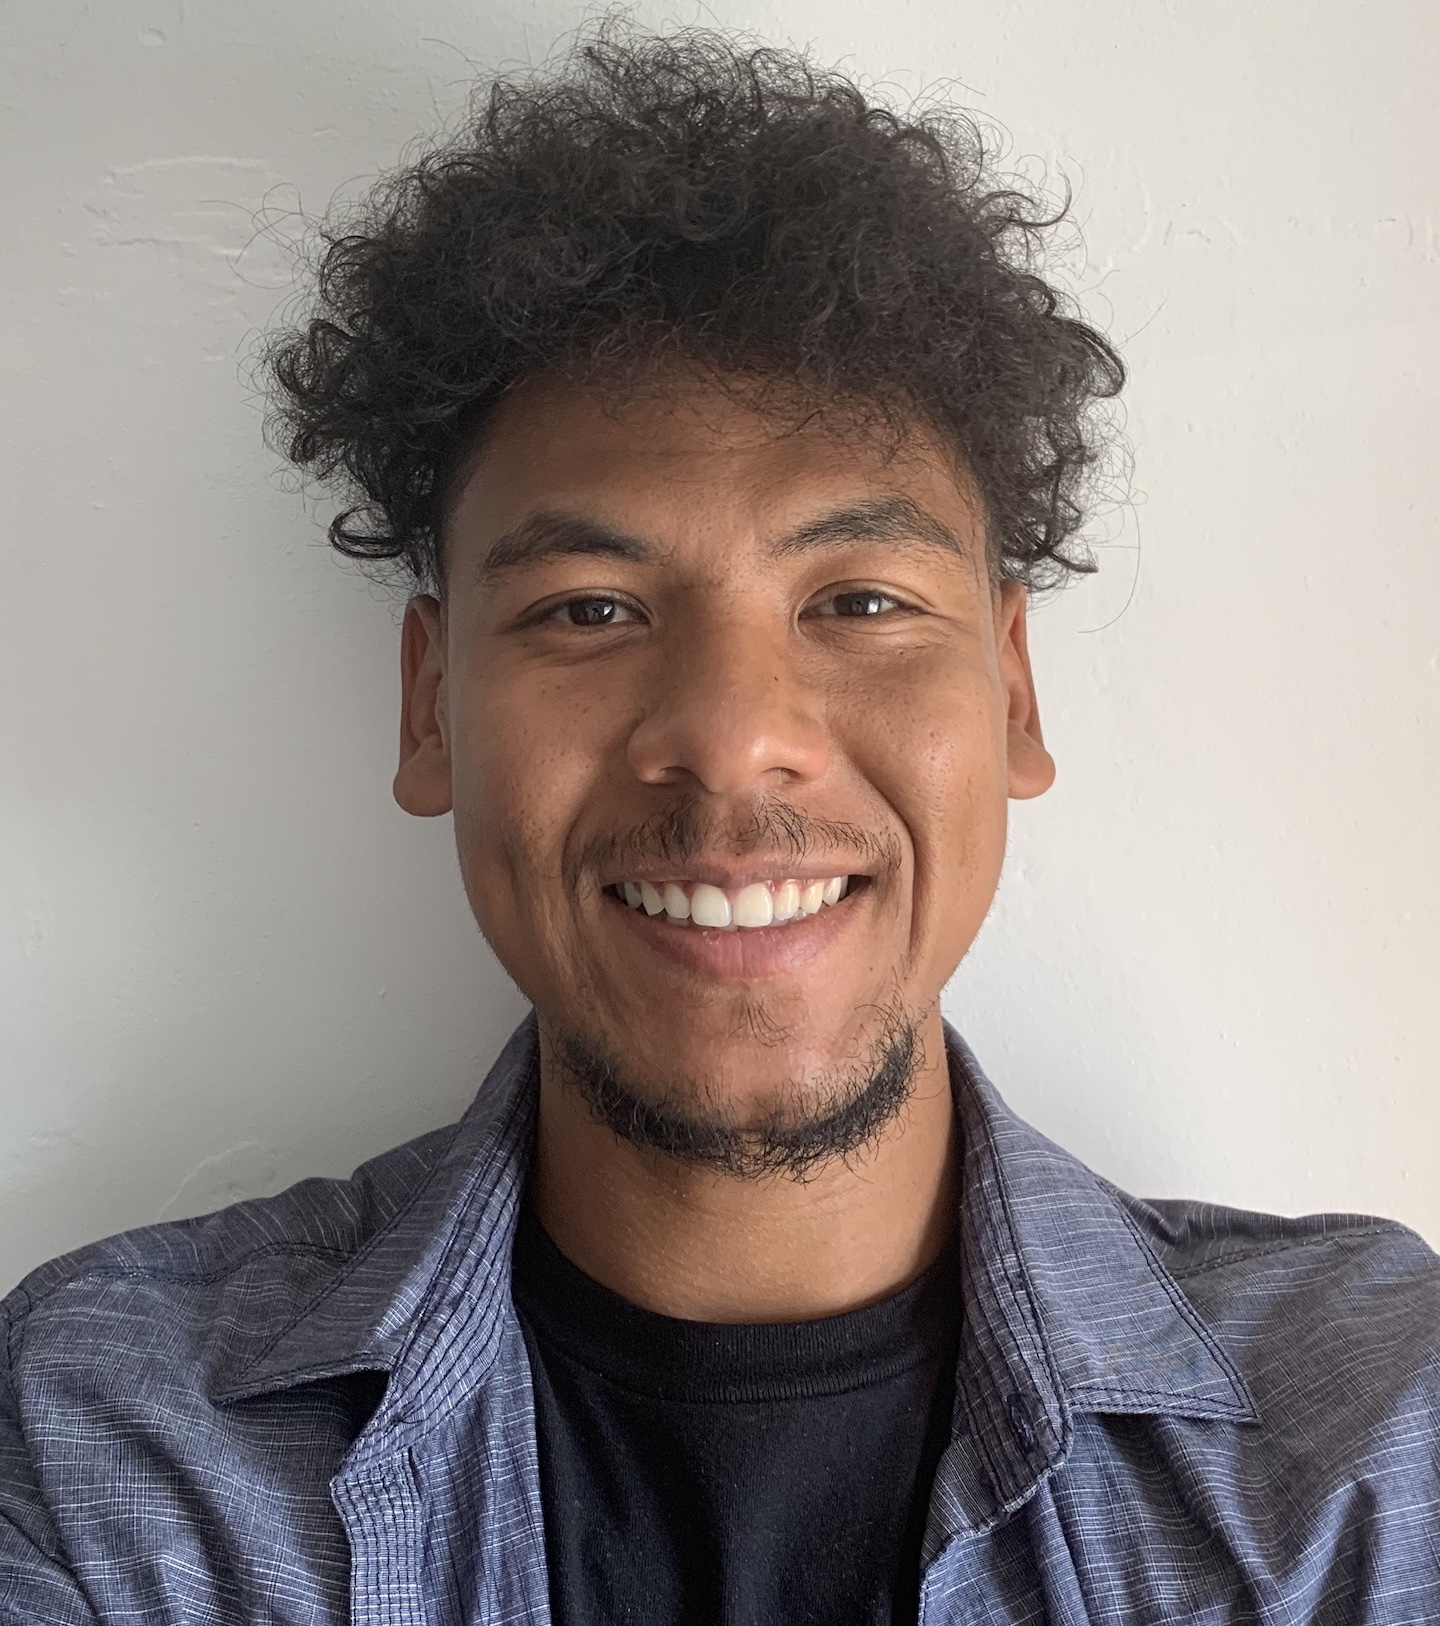
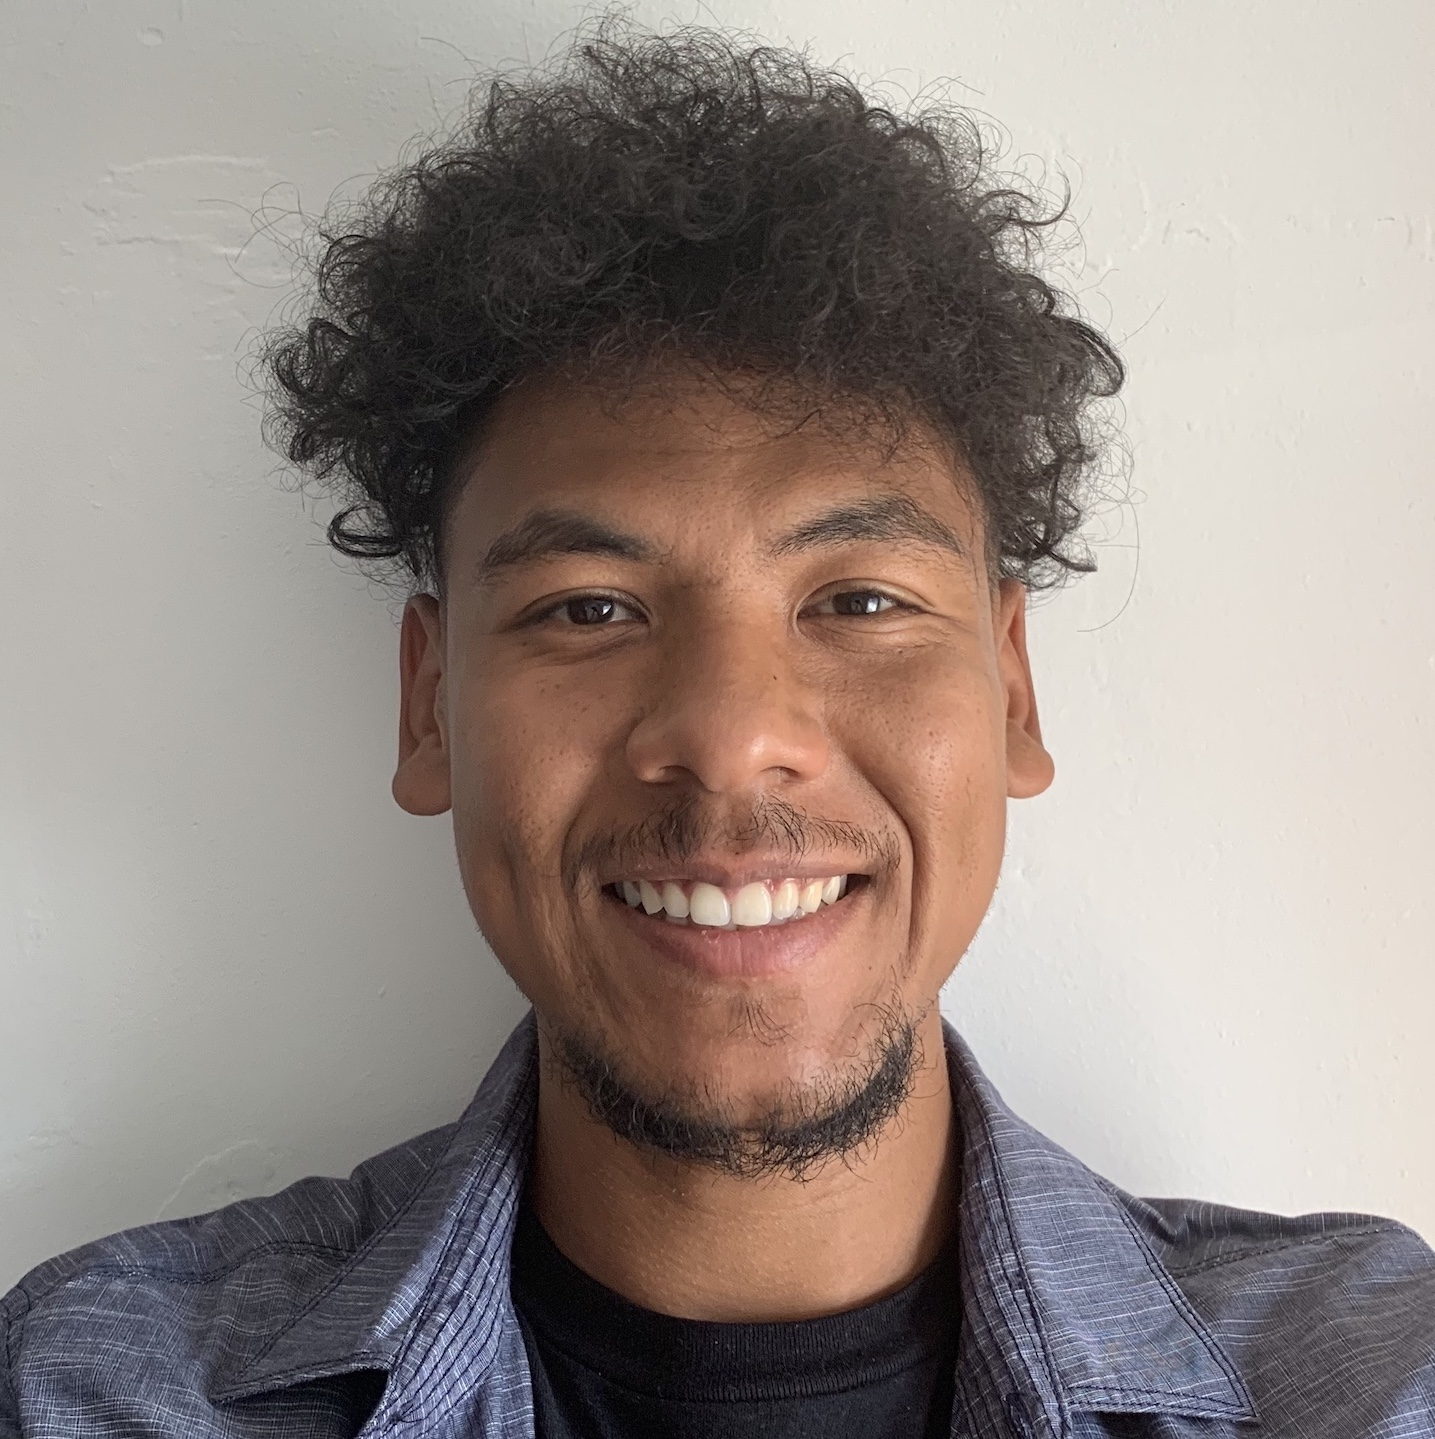
fixed profile photo

diff --git a/index.html b/index.html
@@ -20,7 +20,7 @@
 	<div class="cover"></div>
 
 	<div class="profile-div">
-		<img class="profile" src="images/Profile_Pic.png" />
+		<img class="profile" src="images/Profile_Pic.jpg" />
 	</div>
 
   <br>
